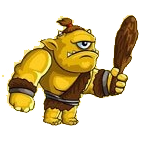
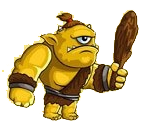
-enemy classes + nice enemy animation

diff --git a/main.py b/main.py
@@ -195,7 +195,6 @@ class Player(pygame.sprite.Sprite):
             if self.attackClock == len(self.frames) * 3:
                 self.attackTrigger = False
                 if self.archeryTrigger:
-                    print(self.archery_coords, self.archery_group)
                     self.archery(*self.archery_coords, self.archery_group)
                     self.archeryTrigger = False
                     return
@@ -272,27 +271,27 @@ class Ground(pygame.sprite.Sprite):
 
 
 class Enemy(pygame.sprite.Sprite):
-    def __init__(self, x, y, width, height, player, group, all_sprites, tools, hp=10):
+    def __init__(self, x, y, player, group, all_sprites, tools, hp=10,
+                 attack=None, idle=None, walk=None, death=None):
         super().__init__(*group)
-        self.image = pygame.Surface([width, height])
-        self.image.fill((0, 255, 0))
-        self.rect = pygame.Rect(x, y, width, height)
-        self.vx = 0
-        self.vy = 300 * speedPerFrame
         self.player = player
         self.hp = hp
-        self.hpBar = HPbar(self, width, hp, [all_sprites, tools])
-        self.width = width
-        self.height = height
+        self.attackTrigger = False
+        self.attackClock = 0
 
-    def EnemyAI(self):
-        if self.player.rect.x + self.player.width // 2 > self.rect.x + self.rect.width // 2:
-            self.vx = 100 * speedPerFrame
-        elif self.player.rect.x + self.player.width // 2 < self.rect.x + self.rect.width // 2:
-            self.vx = -100 * speedPerFrame
-        else:
-            self.vx = 0
-        self.rect = self.rect.move(self.vx, 0)
+        self.frames_walk = walk
+        self.frames_idle = idle
+        self.frames_attack = attack
+        self.frames_death = death
+        self.frames = self.frames_idle
+        self.rect = pygame.Rect(x, y, self.frames_idle[0].get_width(),
+                                self.frames_idle[0].get_height())
+        self.cur_frame = 0
+        self.image = self.frames[self.cur_frame]
+        self.rect.y = ground.rect.y - self.frames[self.cur_frame].get_height()
+        if self.player.rect.x + self.player.width // 2 < self.rect.x + self.rect.width // 2:
+            self.image = pygame.transform.flip(self.image, True, False)
+        self.hpBar = HPbar(self, self.frames_walk[0].get_width(), 10, [all_sprites, tools])
 
     def update(self):
         if self.hp <= 0:
@@ -300,141 +299,58 @@ class Enemy(pygame.sprite.Sprite):
             self.hpBar.kill()
             self.kill()
             return
-        if pygame.sprite.spritecollideany(self, ground_layer):
-            self.EnemyAI()
-        else:
-            self.rect = self.rect.move(self.vx, self.vy)
-        if collisionClock % 5 == 0:
-            if pygame.sprite.spritecollideany(self, player_group):
-                player.hp -= 1
-            if pygame.sprite.spritecollideany(self, maintowergroup):
-                mainTower.hp -= 1
-
-
-class Easy_enemy(Enemy):
-    def __init__(self, x, y, width, height, player, group, all_sprites, tools, hp=10):
-        super().__init__(x, y, width, height, player, group, all_sprites, tools, hp=10)
-        self.frames_walk = easy_enemy_walk
-        self.frames_idle = easy_enemy_idle
-        self.frames_attack = easy_enemy_attack
-        self.frames = self.frames_idle
-        self.cur_frame = 0
-        self.image = self.frames[self.cur_frame]
-        if self.player.rect.x + self.player.width // 2 < self.rect.x + self.rect.width // 2:
-            self.image = pygame.transform.flip(self.image, True, False)
-        self.rect = pygame.Rect(0, 0, self.frames_idle[0].get_width(),
-                                self.frames_idle[0].get_height())
-        self.rect = self.rect.move(x, y)
-
-        self.width = self.frames_idle[0].get_width()
-        self.hpBar.kill()
-        self.hpBar = HPbar(self, self.frames_walk[0].get_width(), 10, [all_sprites, tools])
-
-        self.count = 0
-        self.attackTrigger = False
-
-    def EnemyAI(self):
-        if not self.attackTrigger:
-            super().EnemyAI()
         if self.rect.x + self.rect.width // 2 in \
-                range(self.player.rect.x + self.player.rect.width // 2 - 10,
-                      self.player.rect.x + self.player.rect.width // 2 + 10):
+                range(self.player.rect.x,
+                      self.player.rect.x + self.player.rect.width):
+            if not self.attackTrigger:
+                self.cur_frame = -1
+                self.frames = self.frames_attack
             self.attackTrigger = True
         else:
             self.attackTrigger = False
-
-    def update(self):
-        super().update()
-        self.count += 1
-        if self.count % 4 == 0:
+        if self.attackTrigger:
+            self.attackClock += 1
+            self.frames = self.frames_attack
+            if collisionClock % 4 == 3:
+                self.cur_frame = (self.cur_frame + 1) % len(self.frames)
+                self.image = self.frames[self.cur_frame]
+                self.rect.y = ground.rect.y - self.frames[self.cur_frame].get_height()
+                if self.player.rect.x + self.player.width // 2 < self.rect.x + self.rect.width // 2:
+                    self.image = pygame.transform.flip(self.image, True, False)
+            if self.attackClock == 4 * len(self.frames):
+                self.attackClock = 0
+                self.attackTrigger = False
+                self.player.hp -= 5
+                self.cur_frame = -1
+            return
+        if collisionClock % 3 == 2:
+            self.frames = self.frames_walk
             self.cur_frame = (self.cur_frame + 1) % len(self.frames)
             self.image = self.frames[self.cur_frame]
+            self.rect.y = ground.rect.y - self.frames[self.cur_frame].get_height()
             if self.player.rect.x + self.player.width // 2 < self.rect.x + self.rect.width // 2:
                 self.image = pygame.transform.flip(self.image, True, False)
-        if not self.attackTrigger:
-            if self.cur_frame == 0:
-                if -1 <= self.vx <= 1:
-                    self.frames = self.frames_idle
-                else:
-                    self.frames = self.frames_walk
-        else:
-            self.frames = self.frames_attack
-
-
-class Giant_enemy(Enemy):
-    def __init__(self, x, y, width, height, player, group, all_sprites, tools, hp=25):
-        super().__init__(x, y, width, height, player, group, all_sprites, tools, hp=hp)
-        self.frames_walk = giant_enemy_walk
-        self.frames_idle = giant_enemy_idle
-        self.frames_attack = giant_enemy_attack
-        self.frames = self.frames_idle
-        self.cur_frame = 0
-        self.image = self.frames[self.cur_frame]
-        if self.player.rect.x + self.player.width // 2 < self.rect.x + self.rect.width // 2:
-            self.image = pygame.transform.flip(self.image, True, False)
-        self.rect = pygame.Rect(0, 0, self.frames_idle[0].get_width(),
-                                self.frames_idle[0].get_height())
-        self.rect = self.rect.move(x, y)
-
-        self.width = self.frames_idle[0].get_width()
-        self.hpBar.kill()
-        self.hpBar = HPbar(self, self.frames_walk[0].get_width(), 10, [all_sprites, tools])
-
-        self.count = 0
-        self.attackTrigger = False
-
-    def EnemyAI(self):
-        if not self.attackTrigger:
-            super().EnemyAI()
-        if self.rect.x + self.rect.width // 2 in \
-                range(self.player.rect.x + 30, self.player.rect.x + self.player.rect.width - 30):
-            self.attackTrigger = True
-        else:
-            self.attackTrigger = False
-
-    def update(self):
-        super().update()
-        self.count += 1
-        if self.count % 4 == 0:
-            self.cur_frame = (self.cur_frame + 1) % len(self.frames)
-            self.image = self.frames[self.cur_frame]
-            if self.player.rect.x + self.player.width // 2 < self.rect.x + self.rect.width // 2:
-                self.image = pygame.transform.flip(self.image, True, False)
-        if not self.attackTrigger:
-            if self.cur_frame == 0:
-                if -1 <= self.vx <= 1:
-                    self.frames = self.frames_idle
-                else:
-                    self.frames = self.frames_walk
-        else:
-            self.frames = self.frames_attack
-
+            if self.player.rect.x + self.player.width // 2 > self.rect.x + self.rect.width // 2:
+                self.rect.x += 340 * speedPerFrame
+            elif self.player.rect.x + self.player.width // 2 < self.rect.x + self.rect.width // 2:
+                self.rect.x -= 300 * speedPerFrame
 
 
 class Boss(Enemy):
     def __init__(self, x, y, player, group, all_boss_sprites, tools, name, hp, fon,
                  attack=None, idle=None, walk=None, death=None):
         self.frames_idle = idle
-        super().__init__(x, y, self.frames_idle[0].get_width(),
-                         self.frames_idle[0].get_height(), player, group, all_boss_sprites, tools, hp)
-        self.frames_walk = walk
-        self.frames_attack = attack
-        self.frames_death = death
-        self.frames = self.frames_idle
-        self.cur_frame = 0
-        self.image = self.frames[self.cur_frame]
-        if self.player.rect.x + self.player.width // 2 < self.rect.x + self.rect.width // 2:
-            self.image = pygame.transform.flip(self.image, True, False)
-        self.rect = pygame.Rect(0, 0, self.frames_idle[0].get_width(),
-                                self.frames_idle[0].get_height())
-        self.rect = self.rect.move(x, y)
-
+        super().__init__(x, y, player, group, all_boss_sprites, tools, hp, attack=attack, idle=idle,
+                         walk=walk, death=death)
         self.name = name
         self.hpBar.kill()
         self.hpBar = Boss_HPbar(self, [all_boss_sprites, tools])
+
+        self.attackClock = 0
+        self.abilityClock = 0
+        self.abilityTrigger = False
         self.attackTrigger = False
         self.deathTrigger = False
-        self.walkTrigger = True
         self.fon = fon
 
     def draw_boss_name(self):
@@ -467,19 +383,18 @@ class Boss(Enemy):
             money.amount += 100
             self.death()
             return
-        if not pygame.sprite.spritecollideany(self, ground_layer):
-            self.rect.y += 300 * speedPerFrame
         if self.rect.x + self.rect.width // 2 in \
                 range(self.player.rect.x + self.player.rect.width // 2 - 10,
                       self.player.rect.x + self.player.rect.width // 2 + 10):
+            if not self.attackTrigger:
+                self.cur_frame = -1
+                self.frames = self.frames_attack
             self.attackTrigger = True
         else:
             self.attackTrigger = False
 
     def walk(self):
-        self.walkTrigger = True
         self.cur_frame = -1
-        self.walkClock = 0
         self.frames = self.frames_walk
 
 
@@ -493,6 +408,7 @@ class FireBoss(Boss):
         if collisionClock % 4 == 3:
             self.cur_frame = (self.cur_frame + 1) % len(self.frames)
             self.image = self.frames[self.cur_frame]
+            self.rect.y = boss_ground.rect.y - self.frames[self.cur_frame].get_height()
             if self.player.rect.x + self.player.width // 2 < self.rect.x + self.rect.width // 2:
                 self.image = pygame.transform.flip(self.image, True, False)
         if collisionClock % 64 == 31:
@@ -538,7 +454,51 @@ class Summoner(Boss):
 class Ogre(Boss):
     def update(self):
         super().update()
-
+        if self.deathTrigger:
+            return
+        self.abilityClock += 1
+        if self.abilityClock % 270 == 0:
+            self.abilityClock = 0
+            self.cur_frame = -1
+            self.abilityTrigger = True
+        if self.abilityTrigger and not self.attackTrigger:
+            self.frames = self.frames_attack
+            if self.abilityClock % 4 == 3:
+                self.cur_frame = (self.cur_frame + 1) % len(self.frames)
+                self.image = self.frames[self.cur_frame]
+                self.rect.y = boss_ground.rect.y - self.frames[self.cur_frame].get_height()
+                if width // 2 < self.rect.x + self.rect.width // 2:
+                    self.image = pygame.transform.flip(self.image, True, False)
+            if self.abilityClock % 270 == 90:
+                self.abilityTrigger = False
+                self.cur_frame = -1
+            return
+        if self.attackTrigger:
+            self.attackClock += 1
+            self.frames = self.frames_attack
+            if collisionClock % 4 == 3:
+                self.cur_frame = (self.cur_frame + 1) % len(self.frames)
+                self.image = self.frames[self.cur_frame]
+                self.rect.y = boss_ground.rect.y - self.frames[self.cur_frame].get_height()
+                if self.player.rect.x + self.player.width // 2 < self.rect.x + self.rect.width // 2:
+                    self.image = pygame.transform.flip(self.image, True, False)
+            if self.attackClock == 4 * len(self.frames):
+                self.attackClock = 0
+                self.attackTrigger = False
+                self.player.hp -= 30
+                self.cur_frame = -1
+            return
+        if collisionClock % 4 == 3:
+            self.frames = self.frames_walk
+            self.cur_frame = (self.cur_frame + 1) % len(self.frames)
+            self.image = self.frames[self.cur_frame]
+            self.rect.y = boss_ground.rect.y - self.frames[self.cur_frame].get_height()
+            if self.player.rect.x + self.player.width // 2 < self.rect.x + self.rect.width // 2:
+                self.image = pygame.transform.flip(self.image, True, False)
+            if self.player.rect.x + self.player.width // 2 > self.rect.x + self.rect.width // 2:
+                self.rect.x += 180 * speedPerFrame
+            elif self.player.rect.x + self.player.width // 2 < self.rect.x + self.rect.width // 2:
+                self.rect.x -= 150 * speedPerFrame
 
 
 class Bullet(pygame.sprite.Sprite):
@@ -588,8 +548,8 @@ class HPbar(pygame.sprite.Sprite):
         self.height = height
 
     def update(self):
-        self.rect = pygame.Rect(self.player.rect.x - self.width // 2 + self.player.width // 2,
-                                self.player.rect.y - self.height * 2, self.width, self.height)
+        self.rect = pygame.Rect(self.player.rect.x - self.rect.width // 2 + self.player.rect.width // 2,
+                                self.player.rect.y - self.rect.height * 2, self.rect.width, self.rect.height)
         self.hp = self.player.hp
         self.image.fill((255, 255, 255))
         pygame.draw.rect(self.image, pygame.Color((255, 0, 0)),
@@ -650,9 +610,13 @@ def newWave(typesOfEnemies):
         enemy = typesOfEnemies[random.randrange(0, len(typesOfEnemies), 1)]
         x = random.randrange(ground.rect.x, ground.rect.x + ground.rect.width - 50, 1)
         if enemy == 'goblin':
-            enemy = Easy_enemy(x, ground.rect.y - 100, 30, 30, player, [all_sprites, enemies], all_sprites, tools)
+            enemy = Enemy(x, ground.rect.y - 100, player, [all_sprites, enemies],
+                               all_sprites, tools, hp=10, attack=easy_enemy_attack,
+                               walk=easy_enemy_walk, idle=easy_enemy_idle)
         elif enemy == 'giant':
-            enemy = Giant_enemy(x, ground.rect.y - 100, 50, 50, mainTower, [all_sprites, enemies], all_sprites, tools)
+            enemy = Enemy(x, ground.rect.y - 100, mainTower, [all_sprites, enemies],
+                                all_sprites, tools, hp=25, attack=giant_enemy_attack,
+                                walk=giant_enemy_walk, idle=giant_enemy_idle)
 
 
 if __name__ == '__main__':
@@ -687,6 +651,8 @@ if __name__ == '__main__':
             for event in pygame.event.get():
                 if event.type == pygame.QUIT:
                     running = False
+            condition_trigger = 0
+            fps = 30
             i += 1
             if i == 600:
                 fps = 30
@@ -781,11 +747,23 @@ if __name__ == '__main__':
                                 event.pos[0] < portal.rect.x + portal.rect.width and\
                                 event.pos[1] > portal.rect.y and\
                                 event.pos[1] < portal.rect.y + portal.rect.height:
-                            name = 'Wizard'
-                            boss = FireBoss(width - 200, height // 8 * 4, player,
+                            if False:
+                                name = 'Wizard'
+                                boss = FireBoss(width - 200, height // 8 * 4, player,
+                                                [all_boss_sprites, boss_group], all_boss_sprites,
+                                                tools, name, 100, pygame.image.load('Data/fon4.png'),
+                                                attack=fire_boss_attack, idle=fire_boss_idle, death=fire_boss_death)
+                                boss_ground = Ground(0, height // 4 * 3 - 50, width, [all_boss_sprites, ground_layer])
+                                condition_trigger = 4
+                                f1 = False
+                                collisionClock = 0
+                                continue
+                            name = 'Ogre'
+                            boss = Ogre(width - 200, height // 8 * 4, player,
                                             [all_boss_sprites, boss_group], all_boss_sprites,
-                                            tools, name, 100, pygame.image.load('Data/fon4.png'),
-                                            attack=fire_boss_attack, idle=fire_boss_idle, death=fire_boss_death)
+                                            tools, name, 300, pygame.image.load('Data/fon4.png'),
+                                            attack=ogre_boss_attack, walk=ogre_boss_walk,
+                                            idle=ogre_boss_idle, death=ogre_boss_death)
                             boss_ground = Ground(0, height // 4 * 3 - 50, width, [all_boss_sprites, ground_layer])
                             condition_trigger = 4
                             f1 = False
@@ -823,7 +801,7 @@ if __name__ == '__main__':
                 # vertical move end
 
                 # enemies spawn
-                if int(time) % 10 == 0:
+                if int(time) % 6 == 0:
                     time += 1
                     newWave(typesOfEnemies)
                 # Main act
